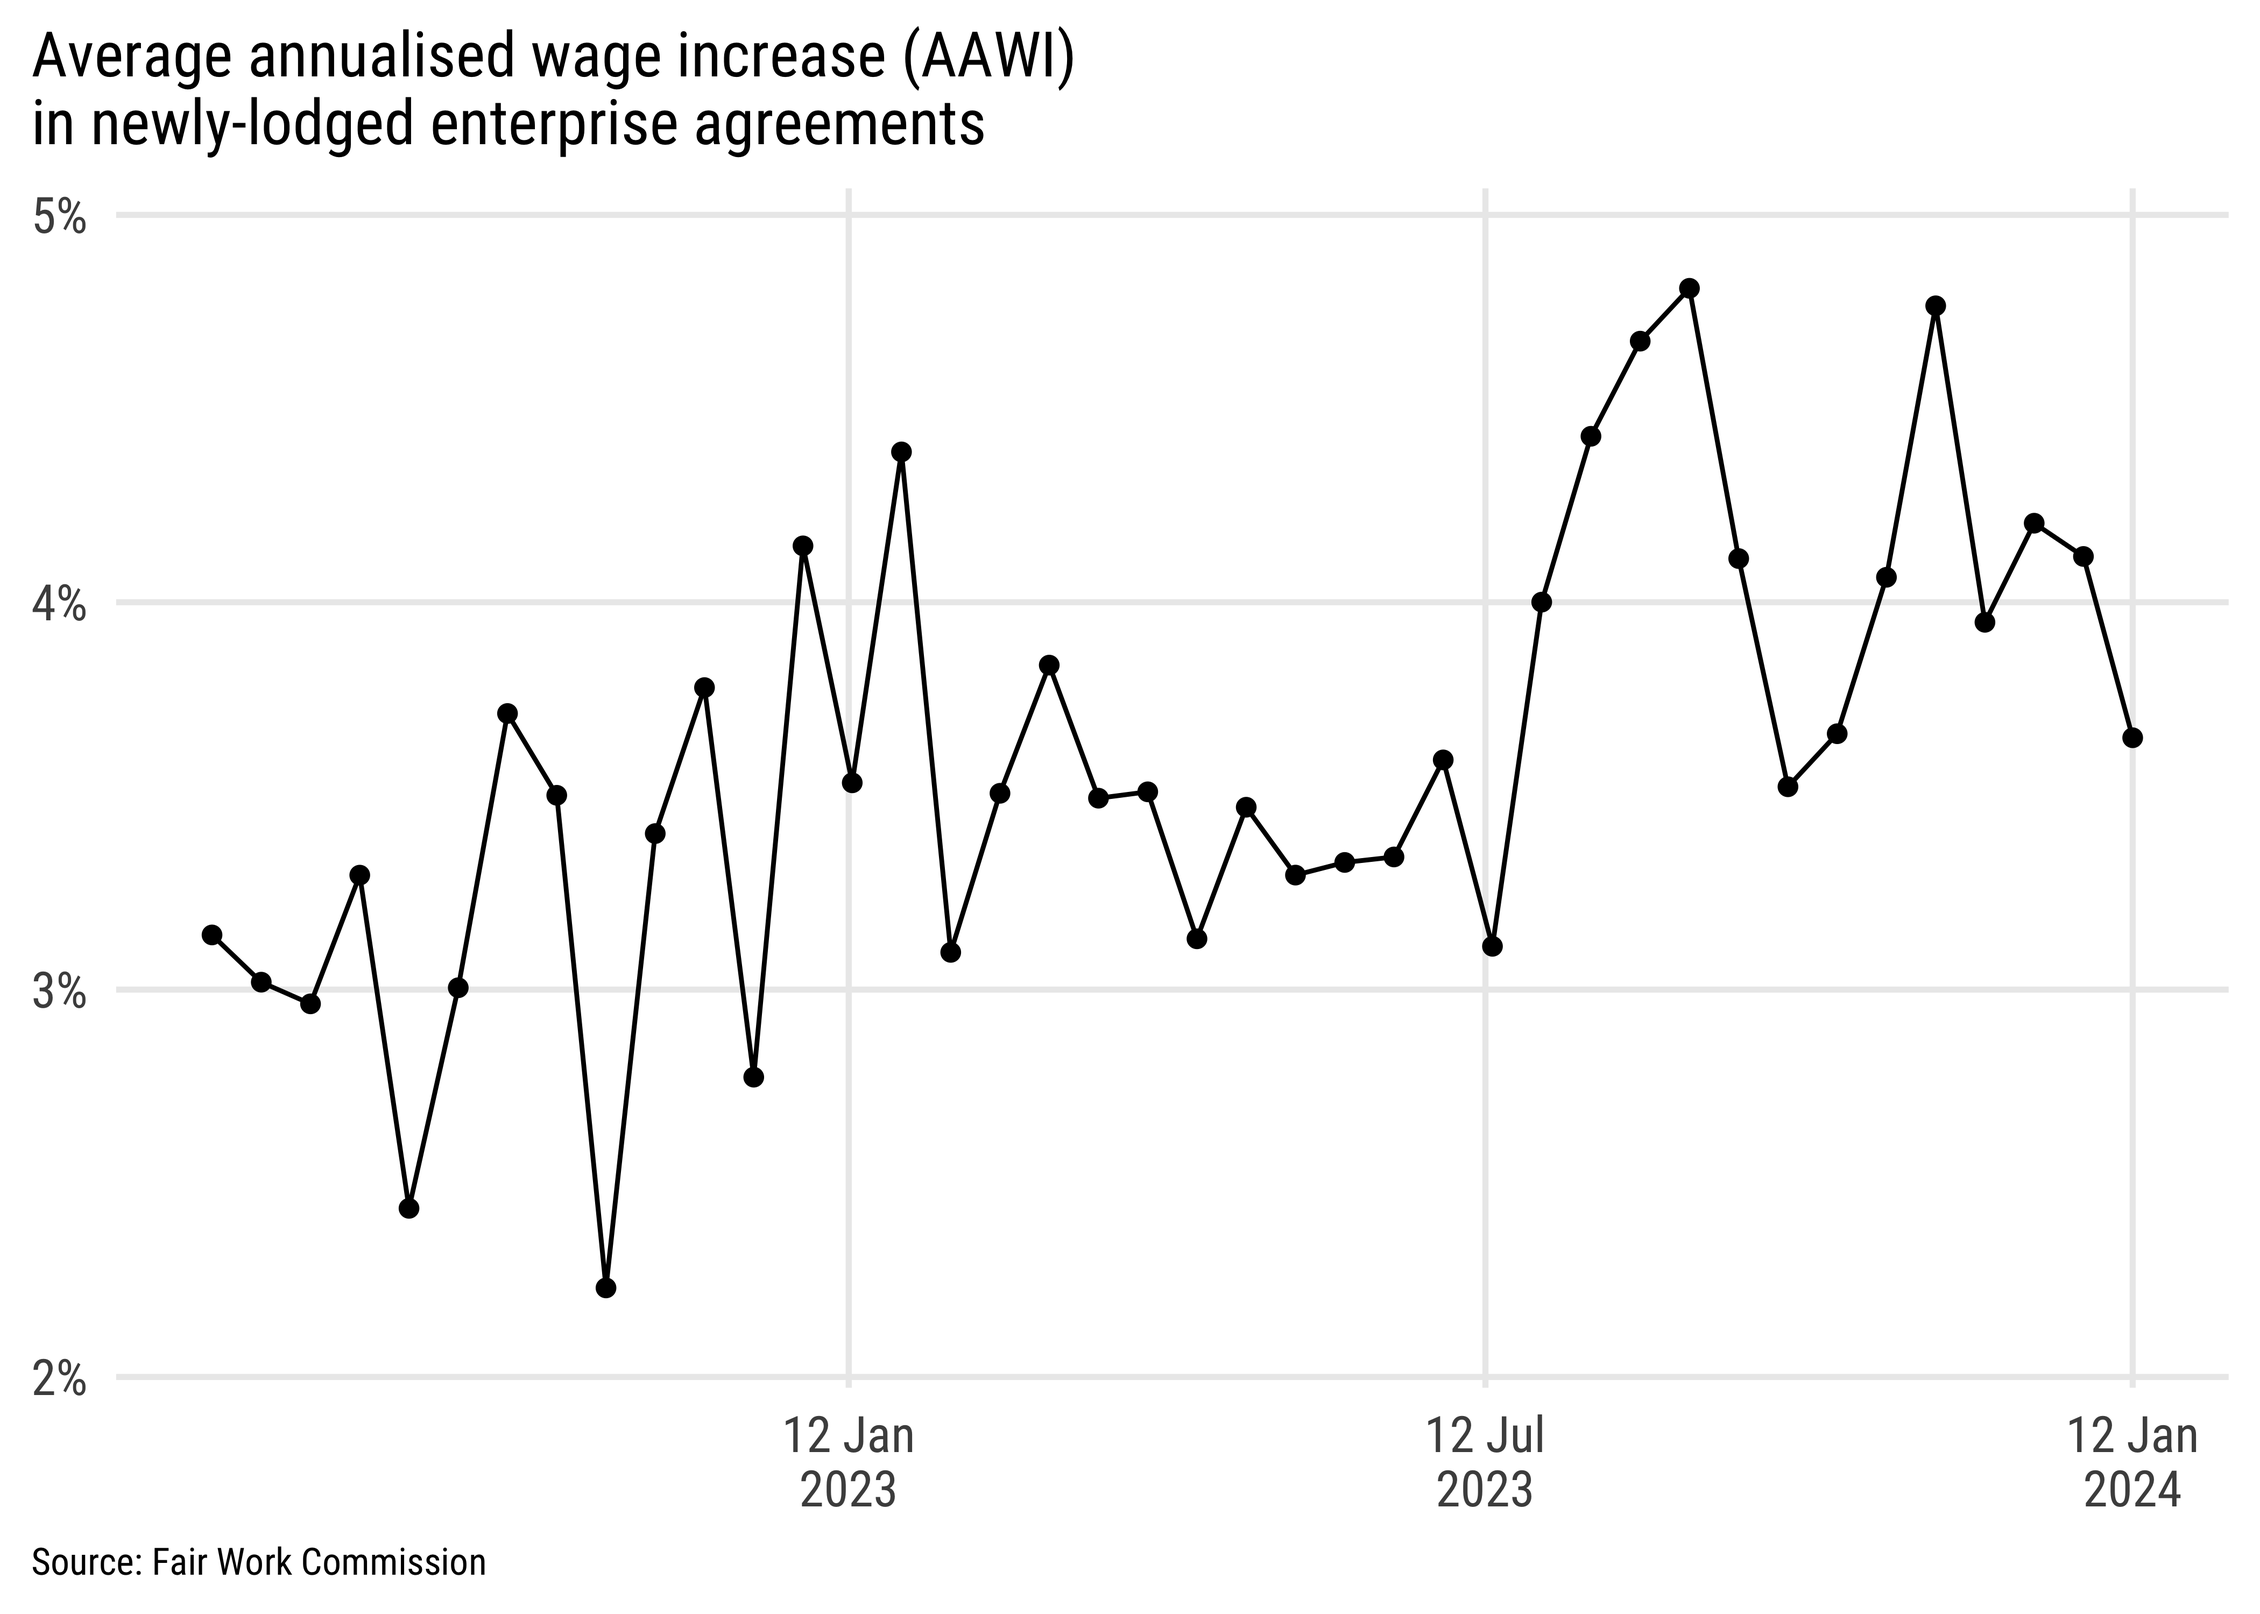
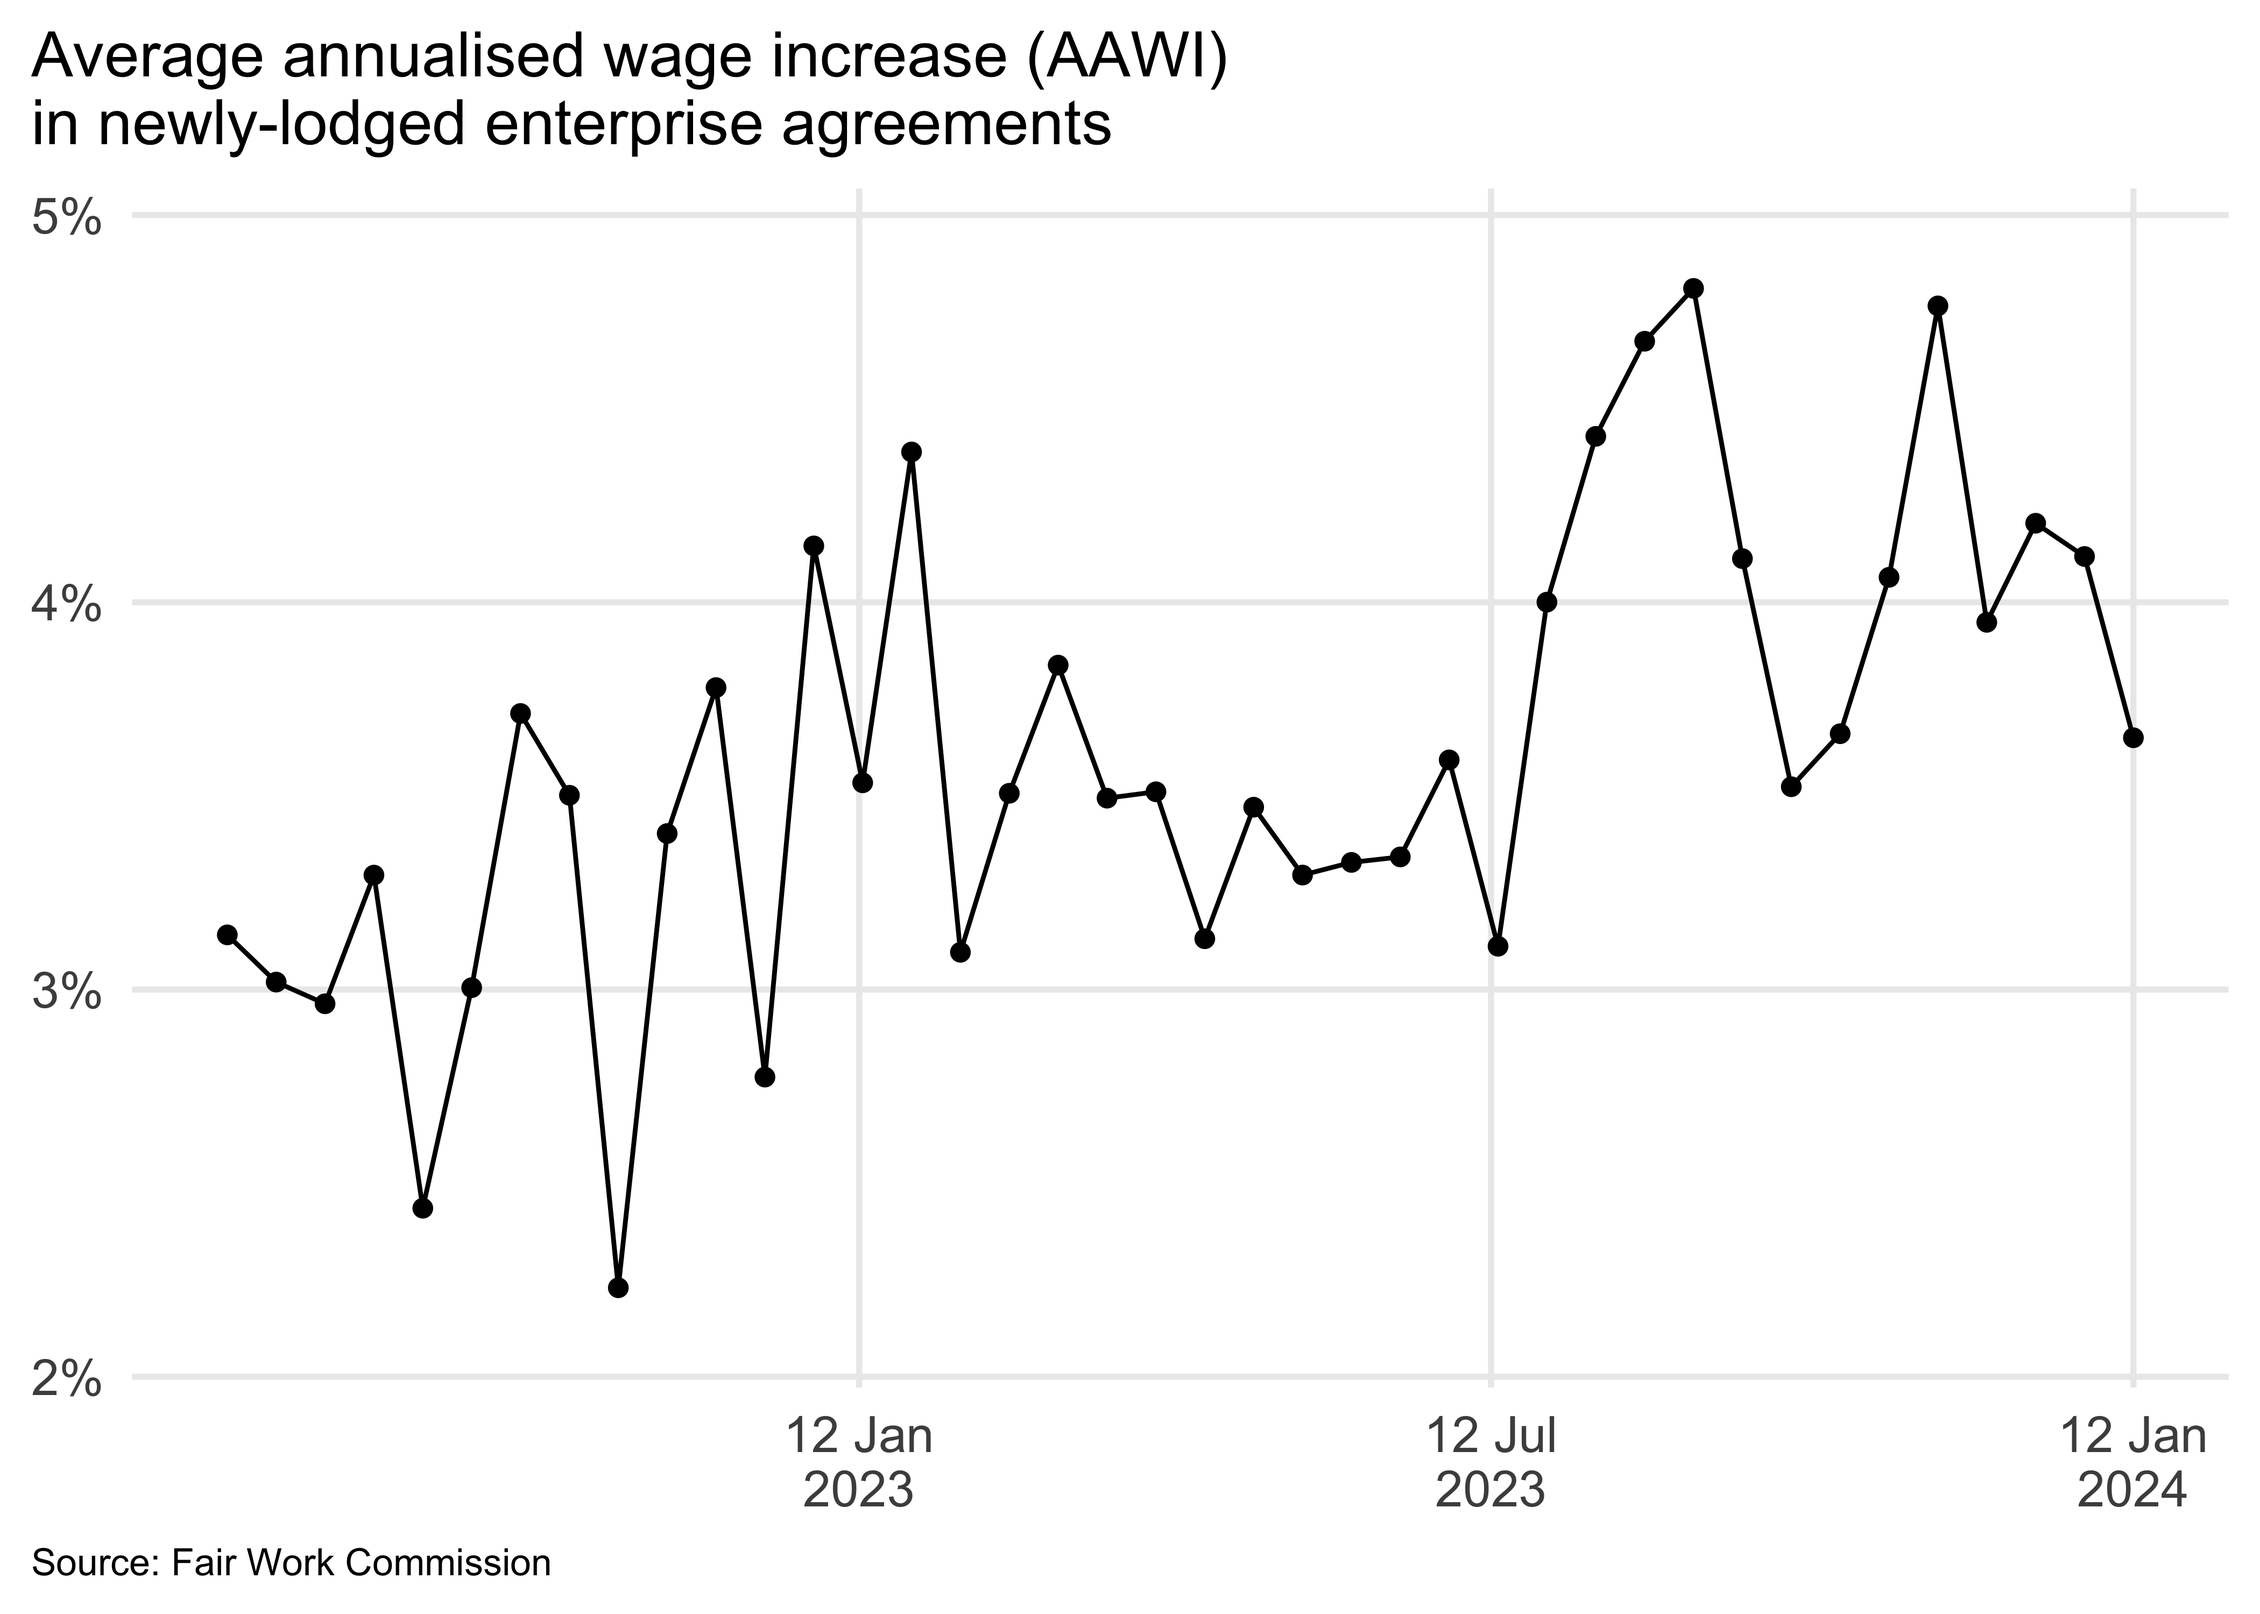
remove hrbrthemes from readme

diff --git a/README.md b/README.md
@@ -26,7 +26,7 @@ devtools::install_github("MattCowgill/readeba")
 ## Examples!
 
 The package has one function: `read_fwc()`, which downloads and imports
-a tidy tibble containing the FWC EBA data
+a tidy tibble containing the FWC EBA data:
 
 ``` r
 library(readeba)
@@ -82,7 +82,7 @@ fwc |>
        caption = "Source: Fair Work Commission")
 ```
 
-<img src="man/figures/README-unnamed-chunk-3-1.png" width="100%" />
+<img src="man/figures/README-unnamed-chunk-2-1.png" width="100%" />
 
 Add a couple of different trend lines:
 
@@ -129,4 +129,4 @@ fwc |>
        caption = "Source: Fair Work Commission")
 ```
 
-<img src="man/figures/README-unnamed-chunk-4-1.png" width="100%" />
+<img src="man/figures/README-unnamed-chunk-3-1.png" width="100%" />
